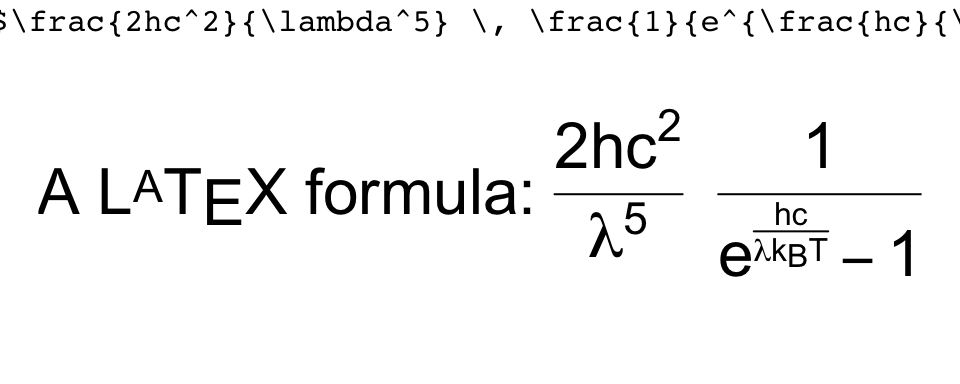
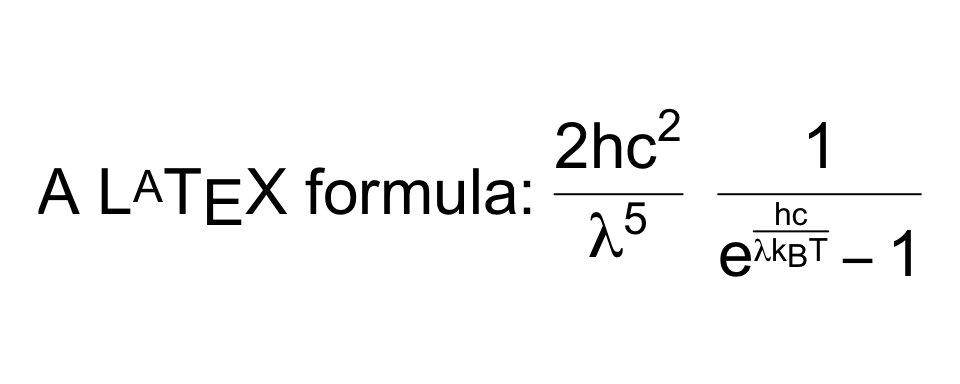
Fix cut label

Changed region(s): [[0.5312, 0.0312, 1.0, 0.0938], [0.0, 0.0312, 0.4688, 0.0938], [0.5, 0.0625, 0.5312, 0.0938]]

diff --git a/README.md b/README.md
@@ -59,7 +59,7 @@ You can quickly preview what a translated LaTeX string would look like
 by using `plot`:
 
 ``` r
-plot(TeX(r'(A $\LaTeX$ formula: $\frac{2hc^2}{\lambda^5} \, \frac{1}{e^{\frac{hc}{\lambda k_B T}} - 1}$)'), cex=2)
+plot(TeX(r'(A $\LaTeX$ formula: $\frac{2hc^2}{\lambda^5} \, \frac{1}{e^{\frac{hc}{\lambda k_B T}} - 1}$)'), cex=2, main="")
 ```
 
 <img src="README_files/figure-gfm/plot-formula-1.png" width="480" />
@@ -1855,7 +1855,8 @@ to see an interactive, searchable table of LaTeX commands supported.
     plotmath expressions in more situations, and improved rendering by
     making use of more plotmath features.
 -   Added a vignette containing a browsable gallery of LaTeX commands
-    supported.
+    supported. You can pull it up using
+    `vignette("supported-commands", package = "latex2exp")`.
 -   Added the following LaTeX commands and symbols:
     -   `\Upsilon` and `\varpi` for Greek letter variants
     -   `\uparrow`, `\downarrow`, `\Uparrow`, `\Downarrow`, `\to`
@@ -1881,7 +1882,6 @@ to see an interactive, searchable table of LaTeX commands supported.
 -   Added a test suite covering a large number of LaTeX expressions,
     edge cases, and examples from GitHub.
 -   Refactored and improved code documentation.
--   Added a vignette that shows all the available LaTeX commands.
 
 ### 0.5.0 \[03/14/2021\]
 

diff --git a/NEWS.md b/NEWS.md
@@ -3,7 +3,7 @@
 * Completely rewritten parser that is much more robust, produces valid plotmath
   expressions in more situations, and improved rendering by making use of more
   plotmath features.
-* Added a vignette containing a browsable gallery of LaTeX commands supported.
+* Added a vignette containing a browsable gallery of LaTeX commands supported. You can pull it up using `vignette("supported-commands", package = "latex2exp")`.
 * Added the following LaTeX commands and symbols:
   * `\Upsilon` and `\varpi` for Greek letter variants
   * `\uparrow`, `\downarrow`, `\Uparrow`, `\Downarrow`, `\to`
@@ -20,7 +20,6 @@
 * Improved the appearance of `\frac` fractions. Now a small space is inserted after the fraction, so that multiple fractions are separated.
 * Added a test suite covering a large number of LaTeX expressions, edge cases, and examples from GitHub.
 * Refactored and improved code documentation.
-* Added a vignette that shows all the available LaTeX commands.
 
 ### 0.5.0 [03/14/2021]
 
